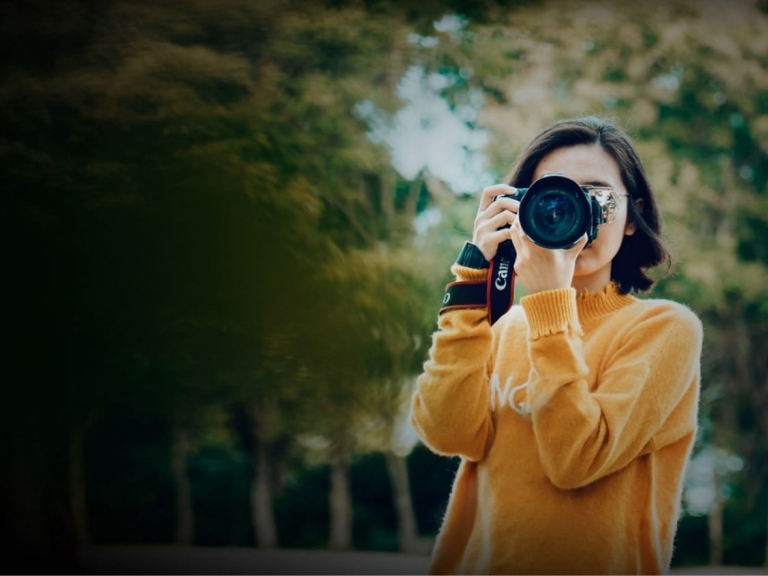
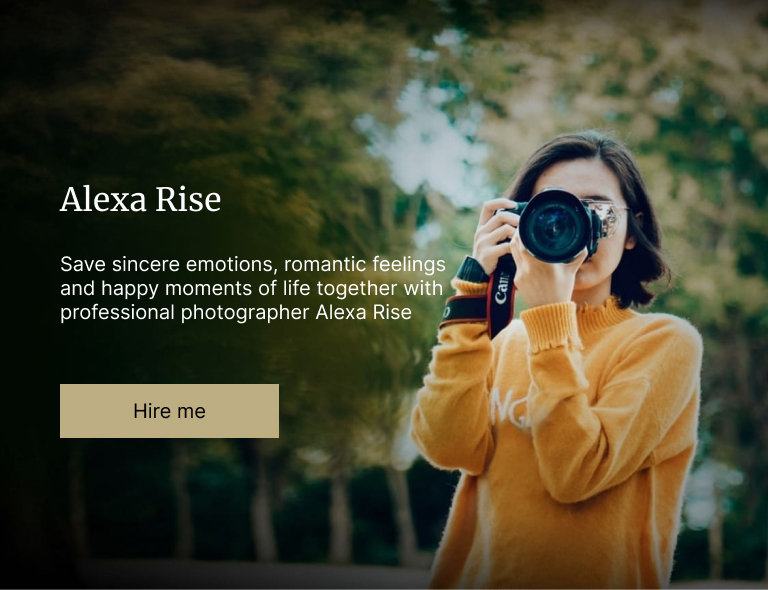
feat: modified for 768px

diff --git a/portfolio/style.css b/portfolio/style.css
@@ -6,23 +6,19 @@ html {
     scroll-behavior: smooth;
 }
 body {
-    /* font-family: 'Inter', sans-serif;
-    font-style: normal;
-    font-weight: normal;
-    font-size: 20px;
-    line-height: 40px; */
+    font-family: 'Inter', sans-serif;
+    font-family: 'Merriweather', serif;
     color: #FFFFFF;
     width: 1440px;
     background-color: #000000;
     margin: 0 auto;
-    font-family: 'Inter', sans-serif;
-    font-family: 'Merriweather', serif;
 }
 @media (max-width: 768px) {
     body {
         width: 768px;
     }
 }
+
 :root {
     --color-gold:#bdae82;
     --color-black: #000000;
@@ -38,7 +34,6 @@ body {
         --font1: 32px;
         --font2: 32px;
     }
-    
 }
 
 @media(max-width: 1440px) {
@@ -49,22 +44,6 @@ body {
 
 /* Header styles start */
 
-.header-logo {
-    display: flex;
-    align-items: center;
-    width: 50px;
-    height: 50px;
-}
-.logo {
-    width: 50px;
-    height: 50px;
-    filter: drop-shadow(0px 4px 4px rgba(0, 0, 0, 0.25));
-    fill: var(--color-white);
-    cursor: pointer;
-}  
-.logo:hover {
-    fill: var(--color-gold);
-}
 .header-container {
     display: flex;
     flex-wrap: wrap;
@@ -81,13 +60,30 @@ body {
 @media (max-width: 768px) {
     .header-container {
         width: 768px;
-        padding: 20px 64px 0px 60px;
+        padding: 20px 64px 20px 60px;
+        background: url('./assets/img/bg-small.jpg');
     }
+}
+.header-logo {
+    display: flex;
+    align-items: center;
+    width: 50px;
+    height: 50px;
+}
+.logo {
+    width: 50px;
+    height: 50px;
+    filter: drop-shadow(0px 4px 4px rgba(0, 0, 0, 0.25));
+    fill: var(--color-white);
+    cursor: pointer;
+}  
+.logo:hover {
+    fill: var(--color-gold);
 }
 .header-nav {
     display: flex;
-    flex-wrap: wrap;
     justify-content: flex-end;
+    height: 50px;
 }
 .header-lng {
     display: flex;
@@ -97,6 +93,32 @@ body {
     margin-right: 30px;
     
 }
+@media (max-width: 1440px) {
+    .hamburger {
+        display: none;
+        
+    }
+}
+@media (max-width: 768px) {
+    .nav {
+        display: none;
+    }
+    .hamburger {
+        display: block;
+    }
+    .line {
+        width: 50px;
+        height: 5px;
+        background-color: #ecf0f1;
+        display: block;
+        margin: 8px auto;
+        -webkit-transition: all 0.3s ease-in-out;
+        -o-transition: all 0.3s ease-in-out;
+        transition: all 0.3s ease-in-out;
+        margin-left: 20px;
+    }
+}
+
 .nav-list {
     display: flex;
     justify-content: flex-end;
@@ -175,10 +197,12 @@ body {
 @media (max-width: 768px) {
     .hero-container {
         width: 768px;
-        padding: 64px 318px 152px 60px;
-        height: 590px;
-        background-position: -5px -30px;
-        background-size: auto 620px;
+        padding: 78px 318px 152px 60px;
+        height: 500px;
+        background: url('./assets/img/bg-small.jpg');
+        background-position: center -90px;
+        background-repeat: no-repeat;
+        background-size: cover;
     }
 }
 .hero {
@@ -281,7 +305,7 @@ body {
 }
 @media (max-width: 768px) {
     .section-title {
-        padding: 80px 0px 50px;
+        padding: 96px 0px 51px;
         margin: 0 202px;
         font-size: 32px;
         line-height: 40px;
@@ -313,9 +337,9 @@ body {
 @media(max-width: 768px){
     .skills-items {
         margin: 0 20px 13px;
-        gap: 44px;
+        gap: 36px;
         justify-content: center;
-        padding: 9px 44px 36px 40px;
+        padding: 18px 45px 36px 42px;
     }
 }
 .items-camera, .items-video, .items-retouch, .items-audio {
@@ -323,7 +347,7 @@ body {
     flex-direction: column;
     justify-content: flex-start;
     align-content: center;
-    padding: 0px 20px;
+    padding: 9px 20px;
     width: 320px;
     background-position: center top;
 }
@@ -332,6 +356,7 @@ body {
         padding: 0px 10px 40px;
         justify-content: center;
         width: 300px;
+        
     }
 }
 .items-camera:hover,
@@ -413,7 +438,7 @@ body {
 }
 @media (max-width: 768px) {
     .portfolio-btns {
-        margin: 0px 162px; 
+        margin: 16px 162px; 
         display: flex;
         justify-content: center;
         flex-wrap: wrap;
@@ -463,7 +488,7 @@ body {
 }
 @media (max-width: 768px) {
     .portfolio-items {
-        padding: 60px 159px 0px;
+        padding: 44px 139px 0px;
     }
 }
 .photo {
@@ -489,7 +514,7 @@ body {
 @media (max-width: 768px) {
     .video-player {
         background-image: url('./assets/img/video-player-small.jpg');
-        margin: 0px;
+        margin: 23px 0px 0px;
         height: 418px;
     }
 }
@@ -532,7 +557,7 @@ body {
         padding: 0px 174px;
         gap: 50px;
         width: 768px;
-        margin: 0px 0px 80px;
+        margin: 20px 0px 80px;
     }
 }
 .block_item {
@@ -545,11 +570,12 @@ body {
     border: 3px solid var(--color-gold);
     box-sizing: border-box;
     border-radius: 0px;
-    padding: 40px 0 40px 0;
+    padding: 71px 0px 40px 0px;
 }
 @media (max-width: 768px) {
     .block_item {
         width: 420px;
+        padding: 42px 0px 40px 0px;
     }
 }
 .name-item {
@@ -685,7 +711,7 @@ body {
     .container-footer {
         flex-direction: row;
         justify-content: center;
-        padding: 28px 279px;
+        padding: 15px 279px;
     }
 }
 .footer-date {
@@ -745,7 +771,7 @@ body {
     color: var(--color-white);
 }
 @media (max-width: 768px) {
-    .RS-box {
+    .RS-box, .RS {
         line-height: 24px;
     }
 }

diff --git a/portfolio/index.html b/portfolio/index.html
@@ -11,13 +11,6 @@
     <link rel="preconnect" href="https://fonts.googleapis.com">
     <link rel="preconnect" href="https://fonts.gstatic.com" crossorigin>
     <link href="https://fonts.googleapis.com/css2?family=Inter:wght@400;700&family=Merriweather:wght@400;700&display=swap" rel="stylesheet">
-
-    <!-- <link rel="preconnect" href="https://fonts.googleapis.com">
-    <link rel="preconnect" href="https://fonts.gstatic.com" crossorigin>
-    <link rel="preconnect" href="https://fonts.googleapis.com">
-    <link rel="preconnect" href="https://fonts.gstatic.com" crossorigin>
-    <link href="https://fonts.googleapis.com/css2?family=Merriweather&display=swap" rel="stylesheet">
-    <link href="https://fonts.googleapis.com/css2?family=Inter:wght@400;700&family=Merriweather:wght@700&display=swap" rel="stylesheet"> -->
 </head>
 <body>    
     <header>
@@ -43,8 +36,13 @@
                     <div class="switch-lng">
                         <span class="switch-lng_en">en &nbsp;</span>
                         <span>/</span>
-                        <span class="switch-lng_ru">ru</span> 
+                        <span class="switch-lng_ru">&nbsp; ru</span> 
                     </div> 
+                </div>
+                <div class="hamburger">
+                    <span class="line"></span>
+                    <span class="line"></span>
+                    <span class="line"></span>
                 </div>                
             </div>                  
         </div>               
